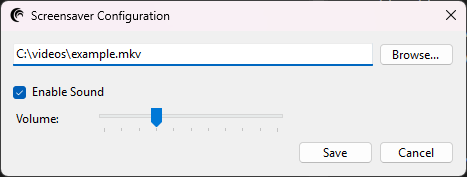
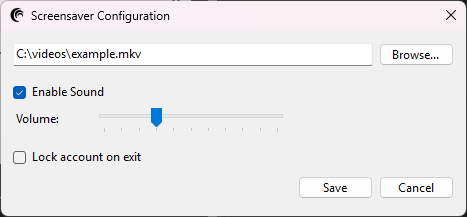
feat: lock on exit

diff --git a/ConfigForm.Designer.cs b/ConfigForm.Designer.cs
@@ -11,6 +11,8 @@
         private System.Windows.Forms.CheckBox soundCheckBox;
         private System.Windows.Forms.Label volumeLabel;
         private System.Windows.Forms.TrackBar volumeBar;
+        private System.Windows.Forms.CheckBox lockOnExitCheckBox;
+
 
         protected override void Dispose(bool disposing)
         {
@@ -53,7 +55,7 @@
             // 
             // saveButton
             // 
-            saveButton.Location = new Point(297, 110);
+            saveButton.Location = new System.Drawing.Point(297, 145);
             saveButton.Name = "saveButton";
             saveButton.Size = new Size(75, 23);
             saveButton.TabIndex = 2;
@@ -63,7 +65,7 @@
             // 
             // cancelButton
             // 
-            cancelButton.Location = new Point(378, 110);
+            cancelButton.Location = new System.Drawing.Point(378, 145);
             cancelButton.Name = "cancelButton";
             cancelButton.Size = new Size(75, 23);
             cancelButton.TabIndex = 3;
@@ -98,12 +100,22 @@
             volumeBar.TabIndex = 0;
             volumeBar.TickFrequency = 10;
             volumeBar.Value = 50;
+            //
+            // lockOnExitCheckBox
+            //
+            this.lockOnExitCheckBox = new System.Windows.Forms.CheckBox();
+            this.lockOnExitCheckBox.Location = new System.Drawing.Point(12, 115);
+            this.lockOnExitCheckBox.Name = "lockOnExitCheckBox";
+            this.lockOnExitCheckBox.Size = new System.Drawing.Size(200, 24);
+            this.lockOnExitCheckBox.Text = "Lock account on exit";
+            this.lockOnExitCheckBox.UseVisualStyleBackColor = true;
+            this.Controls.Add(this.lockOnExitCheckBox);
             // 
             // ConfigForm
             // 
             AutoScaleDimensions = new SizeF(7F, 15F);
             AutoScaleMode = AutoScaleMode.Font;
-            ClientSize = new Size(465, 145);
+            ClientSize = new System.Drawing.Size(465, 185);
             Controls.Add(volumeBar);
             Controls.Add(volumeLabel);
             Controls.Add(soundCheckBox);

diff --git a/SaverConfig.cs b/SaverConfig.cs
@@ -6,6 +6,7 @@ public static class SaverConfig
     private const string VideoPathValue = "VideoPath";
     private const string EnableSoundValue = "EnableSound";
     private const string VolumeValue = "Volume";
+    private const string LockOnExitValue = "LockOnExit";
 
     public static void SetVideoPath(string path)
     {
@@ -43,5 +44,18 @@ public static class SaverConfig
         using var key = Registry.CurrentUser.OpenSubKey(RegistryKeyPath);
         object? value = key?.GetValue(VolumeValue);
         return value is int intVal ? Math.Clamp(intVal, 0, 100) : 50; // default 50%
+    }
+
+    public static void SetLockOnExit(bool lockOnExit)
+    {
+        using var key = Registry.CurrentUser.CreateSubKey(RegistryKeyPath);
+        key?.SetValue(LockOnExitValue, lockOnExit ? 1 : 0, RegistryValueKind.DWord);
+    }
+
+    public static bool GetLockOnExit()
+    {
+        using var key = Registry.CurrentUser.OpenSubKey(RegistryKeyPath);
+        object? value = key?.GetValue(LockOnExitValue);
+        return value is int intVal && intVal == 1;
     }
 }

diff --git a/ConfigForm.cs b/ConfigForm.cs
@@ -14,6 +14,13 @@ namespace ScreenSaverPlayer
 
             soundCheckBox.Checked = SaverConfig.IsSoundEnabled();
             volumeBar.Value = SaverConfig.GetVolume();
+            soundCheckBox.CheckedChanged += (s, e) =>
+            {
+                volumeBar.Enabled = soundCheckBox.Checked;
+            };
+            volumeBar.Enabled = soundCheckBox.Checked;
+            
+            lockOnExitCheckBox.Checked = SaverConfig.GetLockOnExit();
         }
 
         private void BrowseButton_Click(object? sender, EventArgs e)
@@ -37,6 +44,7 @@ namespace ScreenSaverPlayer
                 SaverConfig.SetVideoPath(path);
                 SaverConfig.SetEnableSound(soundCheckBox.Checked);
                 SaverConfig.SetVolume(volumeBar.Value);
+                SaverConfig.SetLockOnExit(lockOnExitCheckBox.Checked);
 
                 MessageBox.Show("Settings saved in registry.", "Configuration");
                 Close();

diff --git a/SaverForm.cs b/SaverForm.cs
@@ -33,6 +33,9 @@ namespace ScreenSaverPlayer
         [DllImport("user32.dll", SetLastError = true)]
         private static extern int GetWindowLong(IntPtr hWnd, int nIndex);
 
+        [DllImport("user32.dll", SetLastError = true)]
+        private static extern bool LockWorkStation();
+
         private const int GWL_STYLE = -16;
         private const int WS_CHILD = 0x40000000;
 
@@ -195,6 +198,17 @@ namespace ScreenSaverPlayer
 
         private static void CloseApp()
         {
+            if (SaverConfig.GetLockOnExit())
+            {
+                try
+                {
+                    LockWorkStation();
+                    // short delay to allow lock to engage
+                    System.Threading.Thread.Sleep(100);
+                }
+                catch { /* ignore failures */ }
+            }
+
             System.Diagnostics.Process.GetCurrentProcess().Kill();
         }   
     }

diff --git a/README.md b/README.md
@@ -3,8 +3,9 @@ Have you ever wanted to embed custom video as a screensaver, but it turned out t
 Worry no more! :) 
 
 ## Features
-Play your video across all of your screens (even supports playing audio)!</br>
+Play your video across all of your screens (even supports playing audio and lock on exit)!</br>
 ![preview](preview.gif)</br>
+[Available on YouTube](https://www.youtube.com/watch?v=lH6qlF_iegU) (by Relaxation Time - 4K Amazing Relaxing Screensavers)
 
 Customize based on your needs!</br>
 ![settings](settings.png)
